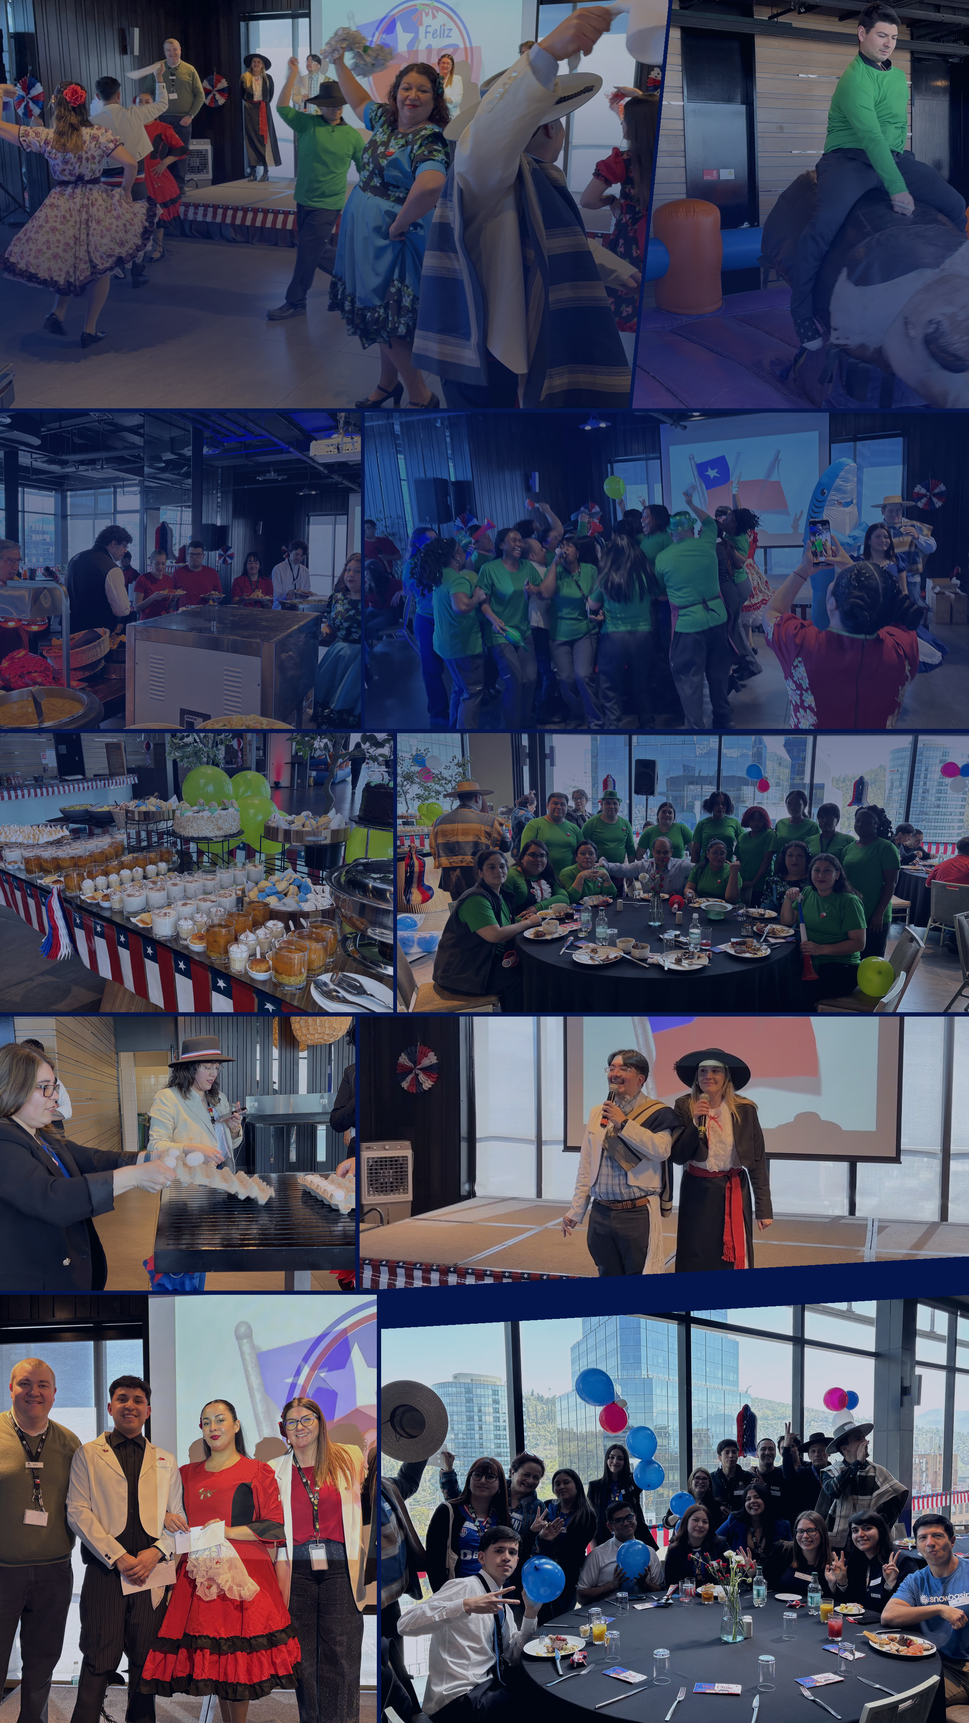
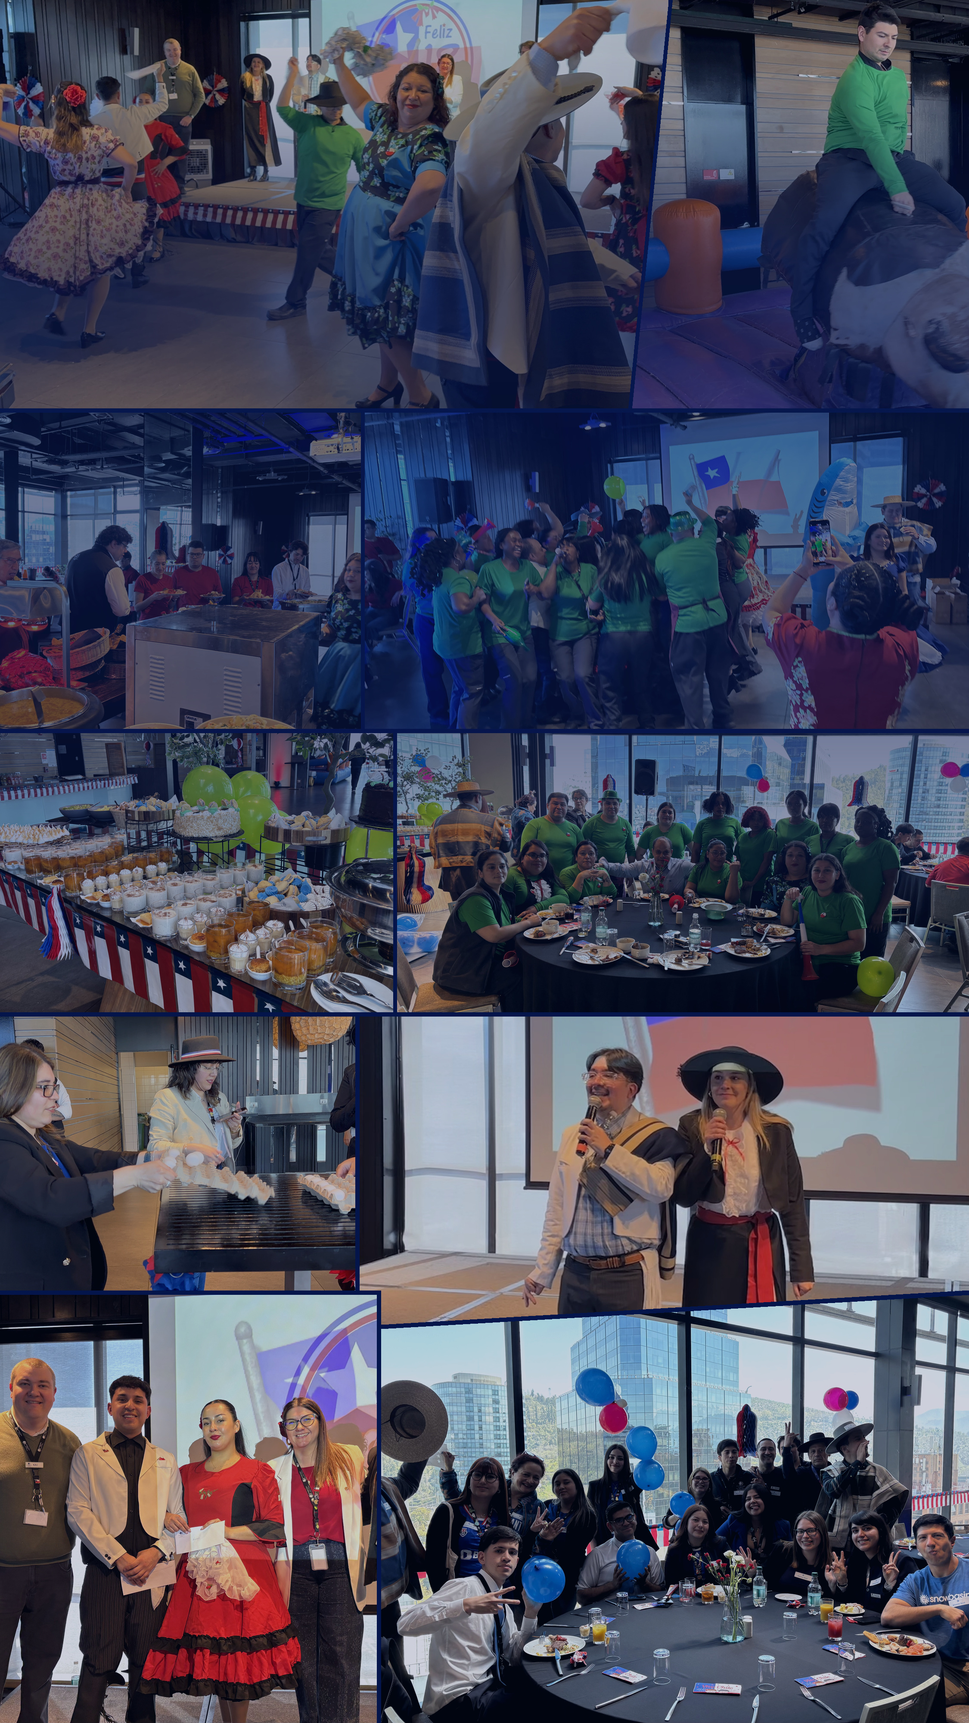
DT ronda 8: los animadores al 52 % del cuadro, y la costura gorda del mosaico
Eli sobre la ronda 7: «aumenta mas el zoom de los animadores porque no se
ve mucho» y «puedes llegar un poco mas abajo siguiendo la linea porque se
ve un lado azul extrano; deberia ser igual a los otros espacios azulitos».

La costura era un defecto con numero: la junta entre el cuadro de los
animadores y el de la mesa iba en 43,5 px @1080 cuando todas las demas
del mosaico van en 5. Sale del `+ 38` del poligono de mesa-azul, que baja
su borde superior sin que nadie bajara el de arriba: 5 + 38 = 43.

Se arreglo bajando el cuadro de arriba —lo que pidio ella, y ademas deja
intacto el encuadre aprobado de la mesa—, con el borde inferior paralelo
al techo de mesa-azul y 5 px por encima. Lleva un escalon a proposito en
x=425, donde manda colaborador; cae detras de la junta vertical, o sea no
se ve. Verificado: 4,8 · 4,8 · 4,8 · 5,3 a lo largo de la diagonal.

Y las dos correcciones salieron del mismo movimiento: al bajar la costura
el cuadro crecio de 305 a 343 px de alto, y eso permitio subir el zoom de
1,45x a 2,0x sin cortarlos mas arriba. Quedan en 736 px, el 52 % del
ancho del cuadro, de la cabeza a medio muslo.

QA limpio. Re-subida al mismo archivo del Drive: el enlace no cambio.

Changed region(s): [[0.3733, 0.5625, 1.0, 0.7812]]

diff --git a/scripts/dt-ronda7-revision.py b/scripts/dt-ronda7-revision.py
@@ -1,6 +1,9 @@
 #!/usr/bin/env python3
 # -*- coding: utf-8 -*-
-"""Arma la página de la RONDA 7 de DOUBLETREE — los DOS estáticos de S3 y S4.
+"""Arma la página de revisión de DOUBLETREE — los DOS estáticos de S3 y S4.
+
+Va por **ronda 8** en la historia y por **ronda 7** en el post: la ronda 8 la
+pidió Eli sobre la historia y el post no se tocó.
 
 Regla del estudio (`antes-y-despues-en-html`): **se aprueba mirando y comparado.**
 El antes, el después y el detalle arriba; los números abajo.
@@ -9,7 +12,9 @@ El antes, el después y el detalle arriba; los números abajo.
 
   · ST 18-09 (S3) — Javier Meza por WhatsApp: «2 ajustes · Quitar punto final ·
     Hacerle más zoom a foto de animadores para que se vean más grandes» y
-    «el resto ok!».
+    «el resto ok!». **Ronda 8**, de Eli sobre la 7: «aumenta más el zoom de los
+    animadores porque no se ve mucho» y «puedes llegar un poco más abajo
+    siguiendo la línea porque se ve un lado azul extraño».
   · FEED 23-09 (S4) — grilla, comentario SIN TACHAR y en rojo: «Cambiemos foto
     por habitación de categoría superior y ok!».
 
@@ -35,13 +40,14 @@ except Exception:                                                  # noqa: BLE00
 from PIL import Image
 
 RAIZ = Path(__file__).resolve().parent.parent
-DESTINO = RAIZ / "out/hilton/dt/DT S3-S4 - ronda 7.html"
+DESTINO = RAIZ / "out/hilton/dt/DT S3-S4 - ronda 8.html"
 
 ST = RAIZ / "out/hilton/dt/st-18sep-fiestas"
 FT = RAIZ / "out/hilton/dt/ft-honors"
 
 ST_DESPUES = ST / "DT ST 18-09 Felices Fiestas Patrias.png"
 ST_ANTES = ST / "_rondas/DT ST 18-09 Felices Fiestas Patrias - ronda 6.png"
+ST_R7 = ST / "_rondas/DT ST 18-09 Felices Fiestas Patrias - ronda 7.png"
 FT_DESPUES = FT / "Post n°1 S4 DT.png"
 FT_ANTES = FT / "_rondas/Post n°1 S4 DT - r6 ENTREGADA 16-09 (Illustrator).png"
 
@@ -56,7 +62,8 @@ E_FT = 2813 / 1350      # feed     2250×2813  →  2,0837
 # Recortes, en coordenadas de la MESA (1080×1920 y 1080×1350). Se toman generosos
 # y los MISMOS para el antes y el después: recortar cada uno a su propia caja
 # haría que los dos salieran iguales y justamente no se vería lo que cambió.
-CAJA_ANIMADORES = (401, 1133, 1080, 1438)     # el cuadro del escenario, en el mosaico
+CAJA_ANIMADORES = (401, 1133, 1080, 1490)     # el cuadro del escenario, en el mosaico
+CAJA_COSTURA = (380, 1380, 1080, 1520)        # la junta con el cuadro de abajo
 CAJA_PUNTO = (280, 880, 800, 1000)            # la última línea de la bajada
 
 
@@ -84,7 +91,7 @@ HTML = """<!doctype html>
 <head>
 <meta charset="utf-8">
 <meta name="viewport" content="width=device-width, initial-scale=1">
-<title>DT S3 y S4 — ronda 7</title>
+<title>DT S3 y S4 — ronda 8</title>
 <link rel="preconnect" href="https://fonts.googleapis.com">
 <link rel="preconnect" href="https://fonts.gstatic.com" crossorigin>
 <link rel="stylesheet" href="https://fonts.googleapis.com/css2?family=Zilla+Slab:wght@400;500;700&family=Archivo:wght@400;500;600&display=swap">
@@ -108,9 +115,10 @@ __CSS__
 
 <header>
   <div class="sello">DoubleTree by Hilton Santiago–Vitacura · Septiembre 2026</div>
-  <h1>Los dos estáticos de S3 y S4 — ronda 7</h1>
-  <p class="sub">Ronda <b>del cliente</b>. Son dos piezas y tres cambios, todos pedidos
-  por escrito. Nada más se tocó: una ronda no es la oportunidad de re-diseñar.</p>
+  <h1>Los dos estáticos de S3 y S4</h1>
+  <p class="sub">La historia va por <b>ronda 8</b> y el post por <b>ronda 7</b>. Todos
+  los cambios están pedidos por escrito —el cliente y tú— y nada más se tocó: una ronda
+  no es la oportunidad de re-diseñar.</p>
 </header>
 
 <h2>1 · Historia 18-09 · Saludo Fiestas Patrias</h2>
@@ -121,33 +129,63 @@ __CSS__
   <p>«el resto ok!»</p>
   <div class="quien">Javier Meza · WhatsApp · 16-09 10:22</div>
 </div>
+<div class="cita">
+  <p>«aumenta más el zoom de los animadores porque <b>no se ve mucho</b>»</p>
+  <p>«puedes <b>llegar un poco más abajo siguiendo la línea</b> porque se ve un lado azul
+  extraño; debería ser igual a los otros espacios azulitos. No tanto como ese»</p>
+  <p>«lo demás cambios okey»</p>
+  <div class="quien">Eli · ronda 8 · 16-09</div>
+</div>
 
 <div class="par">
   <figure>
     <img src="__ST_ANTES__" alt="Historia, ronda 6">
-    <figcaption><b>Ronda 6</b> — la que está en el Drive.</figcaption>
+    <figcaption><b>Ronda 6</b> — la que estaba en el Drive.</figcaption>
   </figure>
   <figure class="elegida">
-    <img src="__ST_DESPUES__" alt="Historia, ronda 7">
-    <figcaption><b>Ronda 7 — la que va.</b></figcaption>
+    <img src="__ST_DESPUES__" alt="Historia, ronda 8">
+    <figcaption><b>Ronda 8 — la que va.</b></figcaption>
   </figure>
 </div>
 
-<h3>Los animadores, de cerca</h3>
-<p class="nota">El mismo recorte en las dos, para que se vea cuánto se acercaron. Es un
-zoom dentro del cuadro del mosaico: la foto no se deforma, se recorta.</p>
+<h3>Los animadores, ronda a ronda</h3>
+<p class="nota">El mismo recorte en las tres. Es un zoom <b>dentro</b> del cuadro del
+mosaico: escala uniforme y recorte — la foto no se deforma nunca.</p>
 <div class="par" style="grid-template-columns:1fr">
   <figure>
-    <img src="__ST_ANIM_ANTES__" alt="Los animadores antes">
-    <figcaption><b>Antes</b> — la pareja ocupaba <b>368 px de los 1415</b> de ancho del
+    <img src="__ST_ANIM_ANTES__" alt="Los animadores en la ronda 6">
+    <figcaption><b>Ronda 6</b> — la pareja ocupaba <b>368 px de los 1415</b> de ancho del
     cuadro: el <b>26 %</b>. Se leía el escenario, no ellos.</figcaption>
   </figure>
+  <figure>
+    <img src="__ST_ANIM_R7__" alt="Los animadores en la ronda 7">
+    <figcaption><b>Ronda 7</b> — zoom <b>1,45×</b> → <b>534 px</b>, el <b>38 %</b>.
+    Tu lectura: sigue sin verse.</figcaption>
+  </figure>
   <figure class="elegida">
-    <img src="__ST_ANIM_DESPUES__" alt="Los animadores después">
-    <figcaption><b>Después</b> — zoom <b>1,45×</b>: quedan en <b>534 px</b>, el
-    <b>38 %</b>. El corte cae a media caña de la bota, que es un plano americano.
-    Más zoom los subiría hasta la cintura y se perdería el traje de huaso, que es
-    justo lo que hace la foto.</figcaption>
+    <img src="__ST_ANIM_DESPUES__" alt="Los animadores en la ronda 8">
+    <figcaption><b>Ronda 8 — la que va</b> — zoom <b>2,0×</b> → <b>736 px</b>, el
+    <b>52 %</b> del cuadro. Y el cuadro creció de 305 a <b>343 px</b> de alto al bajar
+    la costura, así que caben más grandes sin cortarlos más arriba: se ven de la cabeza
+    a medio muslo, con la manta y la faja enteras.</figcaption>
+  </figure>
+</div>
+
+<h3>La costura azul</h3>
+<p class="nota">Tenías razón, y tenía un número detrás. Esa junta iba en <b>43,5 px</b>
+cuando todas las demás del mosaico van en <b>5</b>. Sale del encuadre del cuadro de
+abajo, que está bajado 38 px, y nadie había bajado el de arriba: 5 + 38 = 43.</p>
+<div class="par" style="grid-template-columns:1fr">
+  <figure>
+    <img src="__ST_COST_ANTES__" alt="La costura antes">
+    <figcaption><b>Antes</b> — <b>43,5 px</b> de azul. Es la que marcaste.</figcaption>
+  </figure>
+  <figure class="elegida">
+    <img src="__ST_COST_DESPUES__" alt="La costura después">
+    <figcaption><b>Después</b> — <b>5 px</b>, medidos a lo largo de toda la diagonal
+    (4,8 · 4,8 · 4,8 · 5,3 en x 430 · 500 · 700 · 900). Igual que el resto del mosaico.
+    Se arregló <b>bajando el cuadro de los animadores</b>, que es lo que pediste, y no
+    subiendo el de abajo: así el encuadre aprobado de la mesa no se movió.</figcaption>
   </figure>
 </div>
 
@@ -233,11 +271,14 @@ velo real de la pieza, no con el de historia:</p>
 <div class="envoltorio">
 <table class="tabla">
   <tr><th>Pieza</th><th>Qué cambió</th><th>Antes</th><th>Después</th></tr>
-  <tr><td rowspan="2"><b>ST 18-09</b></td>
+  <tr><td rowspan="3"><b>ST 18-09</b></td>
       <td>Bajada en versales</td><td class="n">«DOUBLETREE.» · 340</td>
       <td class="n ok">«DOUBLETREE» · 335</td></tr>
-  <tr><td>Cuadro del escenario</td><td class="n">pareja 368 px · 26 %</td>
-      <td class="n ok">zoom 1,45× → 534 px · 38 %</td></tr>
+  <tr><td>Cuadro del escenario</td>
+      <td class="n">pareja 368 px · 26 % · cuadro 305 de alto</td>
+      <td class="n ok">zoom 2,0× → 736 px · 52 % · cuadro 343</td></tr>
+  <tr><td>Costura con el cuadro de abajo</td><td class="n">43,5 px</td>
+      <td class="n ok">5 px, como el resto</td></tr>
   <tr><td rowspan="4"><b>Post 23-09</b></td>
       <td>Foto de fondo</td><td class="n">HDT_36 · lobby</td>
       <td class="n ok">HDT_68 · suite (fx 0,80)</td></tr>
@@ -292,7 +333,7 @@ embebidas: el archivo se puede mandar tal cual.</p>
 
 
 def main() -> int:
-    faltan = [r for r in (ST_ANTES, ST_DESPUES, FT_ANTES, FT_DESPUES) if not r.exists()]
+    faltan = [r for r in (ST_ANTES, ST_R7, ST_DESPUES, FT_ANTES, FT_DESPUES) if not r.exists()]
     if faltan:
         for r in faltan:
             print(f"⛔ falta {r}")
@@ -303,7 +344,10 @@ def main() -> int:
          .replace("__ST_ANTES__", entera(ST_ANTES))
          .replace("__ST_DESPUES__", entera(ST_DESPUES))
          .replace("__ST_ANIM_ANTES__", recorte(ST_ANTES, CAJA_ANIMADORES, E_ST))
+         .replace("__ST_ANIM_R7__", recorte(ST_R7, CAJA_ANIMADORES, E_ST))
          .replace("__ST_ANIM_DESPUES__", recorte(ST_DESPUES, CAJA_ANIMADORES, E_ST))
+         .replace("__ST_COST_ANTES__", recorte(ST_ANTES, CAJA_COSTURA, E_ST))
+         .replace("__ST_COST_DESPUES__", recorte(ST_DESPUES, CAJA_COSTURA, E_ST))
          .replace("__ST_PUNTO_ANTES__", recorte(ST_ANTES, CAJA_PUNTO, E_ST, 900))
          .replace("__ST_PUNTO_DESPUES__", recorte(ST_DESPUES, CAJA_PUNTO, E_ST, 900))
          .replace("__FT_ANTES__", entera(FT_ANTES))

diff --git a/scripts/dt-st-fiestas-collage.py b/scripts/dt-st-fiestas-collage.py
@@ -135,25 +135,48 @@ CUADROS = [
     # banda 4 — el segundo corte en diagonal, en el pie derecho
     {"id": "parrilla",  "foto": "IMG_1636", "foco": (0.52, 0.52),
      "poly": [(0, 1133), (396, 1133), (396, 1438), (0, 1438)]},
-    # ⭐ RONDA 7 — LOS ANIMADORES. Javier Meza, 16-09: «hacerle más zoom a foto de
-    # animadores para que se vean más grandes». Son los dos del escenario, y en el
-    # `cover` justo ocupaban 368 px de los 1415 de ancho del cuadro (26 %).
+    # ⭐⭐ RONDA 8 — LOS ANIMADORES, Y LA COSTURA AZUL. Eli, 16-09: «aumenta más el
+    # zoom de los animadores porque no se ve mucho» y «puedes llegar un poco más
+    # abajo siguiendo la línea porque se ve un lado azul extraño; debería ser igual
+    # a los otros espacios azulitos».
     #
-    # El cuadro es apaisado (1415×636, proporción 2,23) y ellos están de CUERPO
-    # ENTERO —de 0,33 a 0,99 del alto de la foto—, así que acercar obliga a
-    # cortarlos: a zoom 1,45 la pareja mide 534 px de ancho (38 %) y el corte cae
-    # a media caña de la bota, que es un plano americano de toda la vida.
-    # Más zoom los subiría de plano hasta la cintura y se perdería el traje de
-    # huaso, que es justo lo que hace la foto.
+    # ⛔ LA COSTURA ERA UN DEFECTO, Y TENÍA UN NÚMERO. Medida sobre el JPG, la
+    # junta entre este cuadro y `mesa-azul` iba en **43,5 px** @1080 cuando todas
+    # las demás del mosaico van en **5**. Nace del `+ 38` de `mesa-azul`, que baja
+    # su borde superior sin que nadie bajara el de éste: 5 + 38 = 43.
     #
-    # El `foco` se recalculó con el zoom: 0,468 deja a la pareja centrada y 0,619
-    # les deja ~60 px de aire sobre la cabeza. Si se toca el zoom, se recalcula.
-    {"id": "escenario", "foto": "IMG_1610", "foco": (0.468, 0.619), "zoom": 1.45,
-     "poly": [(401, 1133), (1080, 1133), (1080, 1400), (401, 1438)]},
+    # Se arregla **bajando este cuadro**, que es lo que pidió ella, y no subiendo
+    # el otro: el borde inferior pasa a ir PARALELO al techo de `mesa-azul` y 5 px
+    # por encima. Por eso la esquina de abajo a la izquierda hace un escalón en
+    # x=425: de ahí a la izquierda quien manda es `colaborador`, cuyo techo está en
+    # 1443, y el escalón queda escondido justo detrás de la junta vertical.
+    #
+    # ⭐ Y de paso el cuadro CRECE de 305 a 343 px de alto @1080, que es lo que
+    # permite subir el zoom sin cortarlos más arriba.
+    #
+    # EL ZOOM. En el `cover` justo la pareja ocupaba 368 px de los 1415 de ancho
+    # (26 %). La ronda 7 la dejó en 1,45× = 534 px (38 %) y Eli dice que sigue sin
+    # verse. A **2,0×** quedan en **736 px, el 52 %** del cuadro.
+    #
+    # ⚠ Ellos están de CUERPO ENTERO —de 0,33 a 0,99 del alto de la foto—, así que
+    # el zoom se paga cortando: a 2,0× se ve de la cabeza a 0,75 del alto, o sea
+    # hasta medio muslo. Entran enteros la manta del huaso y la faja de ella, que
+    # es lo que hace la foto. Más zoom empieza a comerse el traje.
+    #
+    # El `foco` se recalcula CON el zoom o se salen del cuadro: 0,480 los deja
+    # centrados y 0,542 les deja ~50 px de aire sobre la cabeza.
+    {"id": "escenario", "foto": "IMG_1610", "foco": (0.480, 0.542), "zoom": 2.0,
+     "poly": [(401, 1133), (1080, 1133), (1080, 1438), (425, 1476),
+              (425, 1438), (401, 1438)]},
 
     # banda 5
     {"id": "colaborador", "foto": "IMG_2141", "foco": (0.46, 0.42),
      "poly": [(0, 1443), (420, 1443), (420, 1920), (0, 1920)]},
+    # ⚠ El `+ 38` baja el techo de este cuadro respecto de la junta normal (1443 /
+    # 1405). No se toca —es el encuadre que ya estaba aprobado— pero ES el origen
+    # de la costura gorda que marcó Eli en la ronda 8: el cuadro de arriba se bajó
+    # para acompañarlo. Si alguna vez se cambia este 38, hay que rehacer el borde
+    # inferior de `escenario`, que va calcado 5 px por encima de éste.
     {"id": "mesa-azul", "foto": "IMG_1690", "foco": (0.52, 0.52),
      "poly": [(425, 1443 + 38), (1080, 1405 + 38), (1080, 1920), (425, 1920)]},
 ]

diff --git a/clients/hilton/BITACORA.md b/clients/hilton/BITACORA.md
@@ -18,6 +18,37 @@ Opinión Booking) está `APROBADO` **con todos sus comentarios tachados**, y STO
 col K (27-09, Día del Turismo) sigue en `EN REVISIÓN` **sin un solo comentario**.
 Ninguna de las dos se tocó.
 
+### ⭐⭐ RONDA 8 — la historia volvió, y las dos correcciones eran la misma
+
+Eli sobre la ronda 7: **«aumenta más el zoom de los animadores porque no se ve
+mucho»** y **«puedes llegar un poco más abajo siguiendo la línea porque se ve un
+lado azul extraño. Que debería ser igual a los otros espacios azulitos que se ven.
+No tanto como ese.»** · «lo demás cambios okey».
+
+⛔ **La costura era un defecto de verdad y tenía un número.** La junta entre el
+cuadro de los animadores y el de la mesa iba en **43,5 px @1080** cuando todas las
+demás del mosaico van en **5**. Sale del `+ 38` del polígono de `mesa-azul`, que
+baja su borde superior sin que nadie bajara el del cuadro de arriba: 5 + 38 = 43.
+
+Se arregló **bajando el cuadro de arriba** —lo que ella pidió, y además deja
+intacto el encuadre ya aprobado de la mesa—, con el borde inferior **paralelo al
+techo de `mesa-azul` y 5 px por encima**. Lleva un escalón a propósito en x=425,
+donde quien manda pasa a ser `colaborador`; cae justo detrás de la junta vertical,
+o sea no se ve. Verificado: 4,8 · 4,8 · 4,8 · 5,3 px a lo largo de la diagonal.
+
+⭐ **Y las dos correcciones se resolvieron con el mismo movimiento:** al bajar la
+costura el cuadro **creció de 305 a 343 px de alto**, y eso es lo que permitió
+subir el zoom de 1,45× a **2,0×** sin cortar a los animadores más arriba. Quedan en
+**736 px, el 52 %** del ancho del cuadro (venían del 26 % en la ronda 6), vistos de
+la cabeza a medio muslo, con la manta y la faja enteras.
+
+> ⭐⭐ **Regla para cualquier mosaico:** las costuras se **miden**, no se miran. Un
+> filete que se sale del patrón se lee como error de montaje aunque nadie sepa
+> decir por qué, y un polígono con desplazamiento propio rompe la promesa de
+> `FILETE = 5` en silencio.
+
+**Entregada.** Re-subida al mismo archivo del Drive: el enlace sigue igual.
+
 ### ⭐⭐ El hallazgo de la sesión: la foto de una pieza con tinta blanca se ELIGE MIDIENDO
 
 El pedido decía «habitación de categoría superior» y las habitaciones bonitas del
@@ -49,7 +80,8 @@ titular en **6,3:1 cuando de verdad estaba en 2,8:1** — o sea aprobaba piezas 
 | Pieza | Elemento | Antes | Después |
 |---|---|---|---|
 | ST 18-09 | bajada en versales | «DOUBLETREE.» · 340 px | **«DOUBLETREE» · 335 px** |
-| ST 18-09 | cuadro del escenario | pareja 368 px = 26 % del cuadro | **zoom 1,45× → 534 px = 38 %** |
+| ST 18-09 | cuadro del escenario | pareja 368 px = 26 % del cuadro · cuadro 305 de alto | **zoom 2,0× → 736 px = 52 % · cuadro 343** |
+| ST 18-09 | costura con el cuadro de abajo | **43,5 px** | **5 px, como el resto del mosaico** |
 | Post 23-09 | foto de fondo | `HDT_36` lobby | **`HDT_68` suite, fx 0,80** |
 | Post 23-09 | logotipo DT | 2,42:1 *(desviación declarada)* | **4,32:1** |
 | Post 23-09 | logotipo Hilton Honors | 6,70:1 | **8,60:1** |
@@ -64,9 +96,12 @@ Las dos pasan `dt-qa.py` **limpias**. `npm run typecheck` limpio.
 2. **`dt-ft-honors-foto.py` es por variantes**: `suite` (la que va), `estar68` (la
    alternativa medida), `king` · `bienvenida` · `estar` (descartadas, con su
    número) y `lobby` (reconstruye la entrega vieja byte a byte).
-3. **La página de la ronda** — `out/hilton/dt/DT S3-S4 - ronda 7.html`, con el
-   antes, el después, los dos detalles de cerca y las alternativas de foto. Un
-   solo archivo, imágenes embebidas.
+3. **La página de la ronda** — `out/hilton/dt/DT S3-S4 - ronda 8.html`, con el
+   antes, el después, los animadores **ronda a ronda**, la costura de cerca y las
+   alternativas de foto. Un solo archivo, imágenes embebidas.
+   ⭐ Eli no podía abrirla desde la terminal, así que se **publicó como página web**:
+   https://claude.ai/artifact/4L1rHEMfybm5w6ehMpqsPN — se republica al mismo enlace
+   cada ronda. Ojo: **Drive no renderiza `.html`**, los ofrece para descargar.
 4. Las rondas anteriores archivadas en `_rondas/` de cada pieza.
 
 ### ⛔ La entrega quedó a MEDIAS en el Drive, y esto es lo que falta

diff --git a/clients/hilton/CLAUDE.md b/clients/hilton/CLAUDE.md
@@ -926,7 +926,7 @@ python scripts/dt-qa.py "out/hilton/dt/ft-honors/Post n°1 S4 DT.png"
 python scripts/dt-ronda7-revision.py           # la página que mira Eli
 ```
 
-### ⭐⭐ LA HISTORIA DEL 18-09 — RONDA 7, LA PRIMERA DEL CLIENTE
+### ⭐⭐ LA HISTORIA DEL 18-09 — RONDAS 7 Y 8
 
 Javier Meza por WhatsApp, 16-09 10:22: «2 ajustes · **Quitar punto final** ·
 **Hacerle más zoom a foto de animadores** para que se vean más grandes» · «el
@@ -940,21 +940,53 @@ resto ok!».
    como que el texto se puede editar.
 2. **Los animadores se acercan.** El zoom vive en el cuadro `escenario` de
    `scripts/dt-st-fiestas-collage.py`, no en la composición: `recorta()` ahora
-   acepta `zoom`, que escala uniforme y recorta — **no deforma**.
+   acepta `zoom`, que escala uniforme y recorta — **no deforma**. La ronda 7 lo
+   dejó en 1,45× y **la ronda 8 lo subió a 2,0×** porque Eli dijo que seguía sin
+   verse.
 
-#### ⭐ Cuánto zoom, y por qué 1,45×
+#### ⭐ Cuánto zoom, y por qué 2,0×
 
-El cuadro es apaisado (1415×636) y los animadores están de **cuerpo entero** —de
-0,33 a 0,99 del alto de la foto—, así que acercar obliga a cortarlos:
+El cuadro es apaisado y los animadores están de **cuerpo entero** —de 0,33 a 0,99
+del alto de la foto—, así que acercar obliga a cortarlos:
 
 | | Ancho de la pareja | % del cuadro | Corte |
 |---|---|---|---|
-| antes (`cover` justo) | 368 px | 26 % | ninguno, pero se lee el escenario y no ellos |
-| **zoom 1,45×** | **534 px** | **38 %** | a media caña de la bota — plano americano |
+| ronda 6 (`cover` justo) | 368 px | 26 % | ninguno, pero se lee el escenario y no ellos |
+| ronda 7 · zoom 1,45× | 534 px | 38 % | a media caña de la bota. **Eli: «no se ve mucho»** |
+| **ronda 8 · zoom 2,0×** | **736 px** | **52 %** | a medio muslo — manta y faja enteras |
 | más zoom | — | — | los sube hasta la cintura y **se pierde el traje de huaso** |
 
 ⚠ Al subir el zoom hay que **recalcular el `foco`** o el motivo se sale del
-cuadro: 0,468 los deja centrados y 0,619 les deja ~60 px de aire sobre la cabeza.
+cuadro: 0,480 los deja centrados y 0,542 les deja ~50 px de aire sobre la cabeza.
+
+#### ⛔⛔ RONDA 8 — LA COSTURA GORDA DEL MOSAICO, Y LO QUE ENSEÑA
+
+Eli, sobre la ronda 7: **«puedes llegar un poco más abajo siguiendo la línea
+porque se ve un lado azul extraño. Que debería ser igual a los otros espacios
+azulitos que se ven. No tanto como ese.»**
+
+Tenía un número detrás. Medida sobre el JPG, la junta entre `escenario` y
+`mesa-azul` iba en **43,5 px @1080** cuando **todas** las demás del mosaico van en
+**5**. El origen es el `+ 38` del polígono de `mesa-azul`, que baja su borde
+superior; nadie había bajado el del cuadro de arriba, y **5 + 38 = 43**.
+
+**Se arregló bajando el cuadro de arriba, no subiendo el de abajo** — que es lo
+que ella pidió, y además deja intacto un encuadre ya aprobado. El borde inferior
+de `escenario` pasa a ir **paralelo al techo de `mesa-azul` y 5 px por encima**.
+
+⚠ **Y lleva un escalón a propósito.** De x=425 hacia la izquierda quien manda es
+`colaborador`, cuyo techo está en 1443, así que ahí el borde se queda en 1438. El
+escalón cae justo detrás de la junta vertical entre los dos cuadros de abajo, o
+sea **no se ve**.
+
+⭐ De paso el cuadro **crece de 305 a 343 px de alto**, y eso es lo que permitió
+subir el zoom sin cortar a los animadores más arriba. Las dos correcciones de la
+ronda se resolvieron con el mismo movimiento.
+
+> ⭐⭐ **La regla que queda para cualquier mosaico:** las costuras se **miden**, no
+> se miran. Un filete que se sale del patrón se lee como un error de montaje aunque
+> nadie sepa decir por qué. `FILETE = 5` es la promesa del mosaico, y cualquier
+> polígono con un desplazamiento propio (el `+ 38`) la rompe en silencio.
 
 ### ⛔ El `¡` en DT: Stag no lo tiene, y se resuelve con el truco de Eli
 
